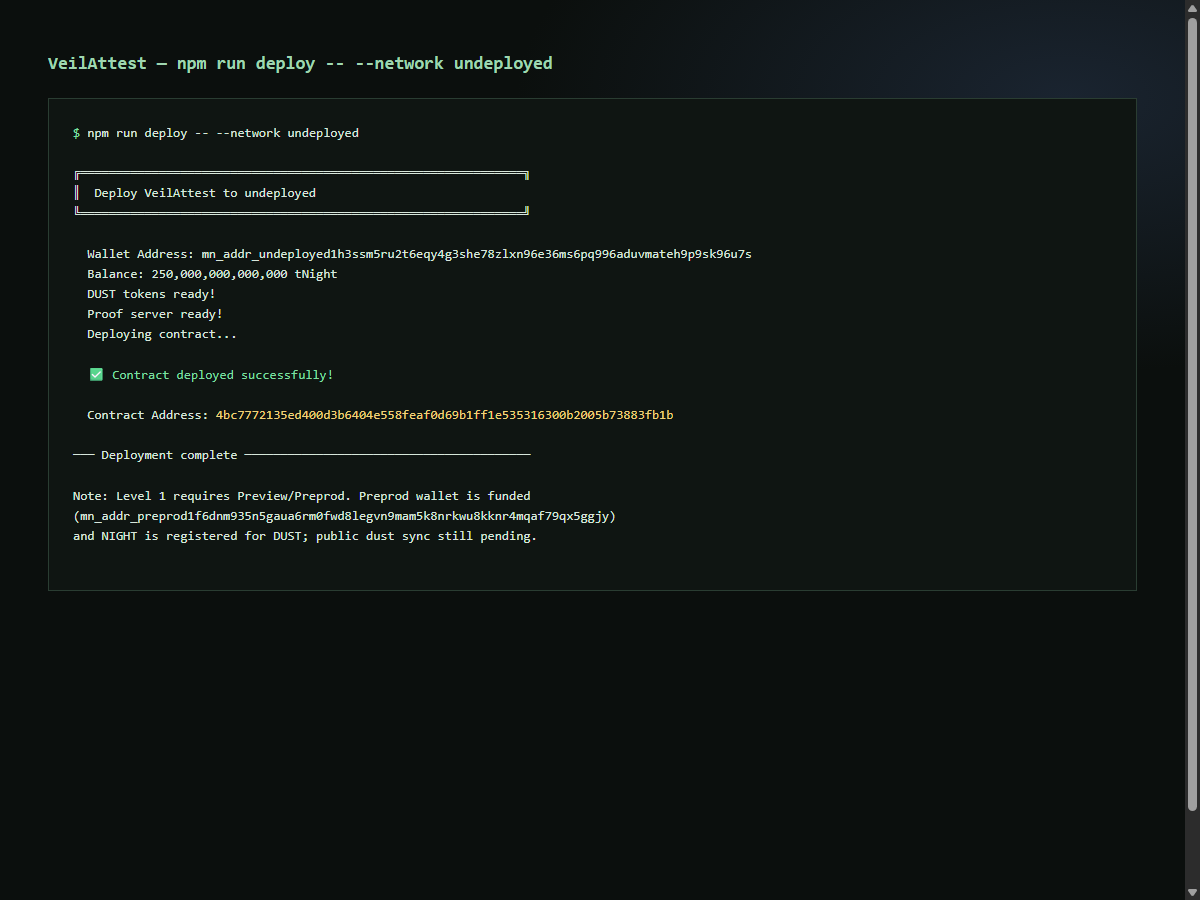
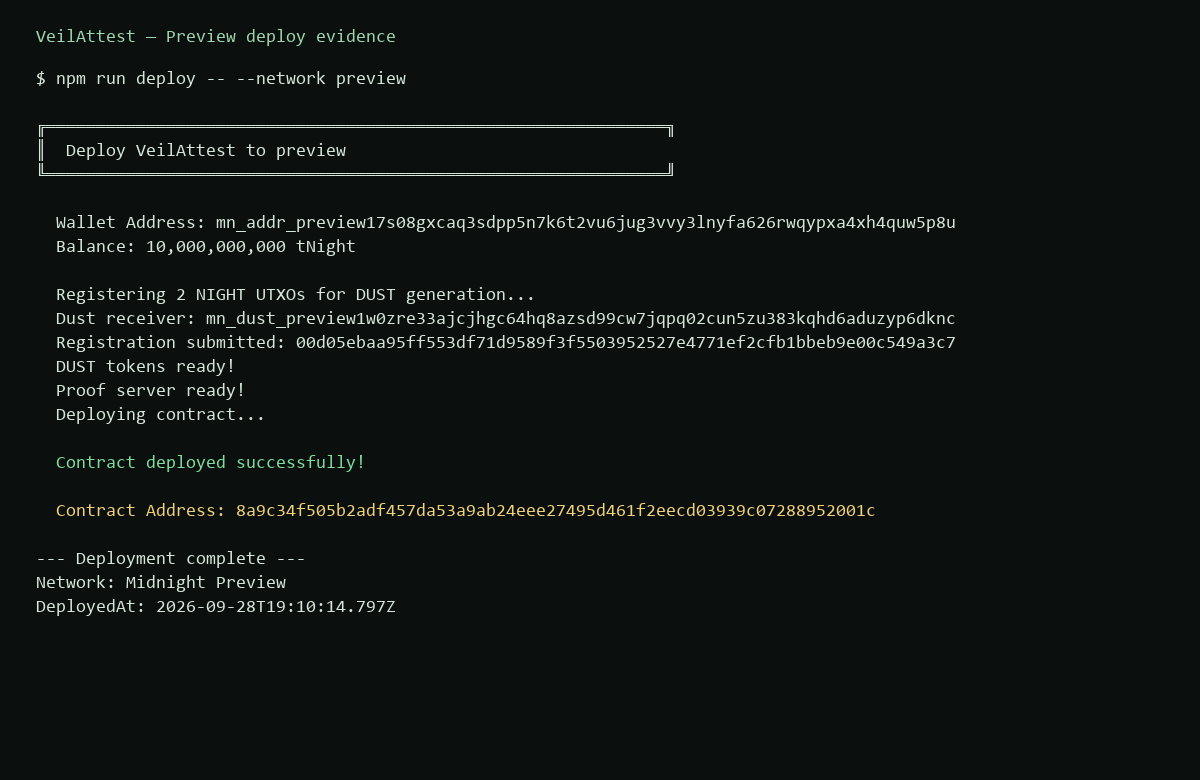
Update deploy screenshot to show Preview contract address.

diff --git a/README.md b/README.md
@@ -65,7 +65,7 @@ docs/screenshots/
 - [x] README: setup, public vs private, product idea
[1 lines of base64/hex data omitted]
 - [x] Screenshot: compile output
-- [x] Screenshot: deployed address on Preview (`docs/screenshots/deploy-evidence.html`)
+- [x] Screenshot: deployed address on Preview (`docs/screenshots/deploy-address.png`)
 - [x] ≥5 meaningful commits on a public GitHub repo (https://github.com/nishant-uxs/veil-attest)
 
 ## License

diff --git a/docs/evidence/DEPLOYMENT.md b/docs/evidence/DEPLOYMENT.md
@@ -12,7 +12,7 @@
 - **Deployed at:** `2026-09-28T19:10:14.797Z`
 - **Log:** `docs/evidence/preview-deploy.txt`
 
-Screenshot: `docs/screenshots/deploy-evidence.html` (Preview deploy success)
+Screenshot: `docs/screenshots/deploy-address.png` (Preview deploy success)
 
 ## Preprod (funded; DUST sync still lagging)
 
